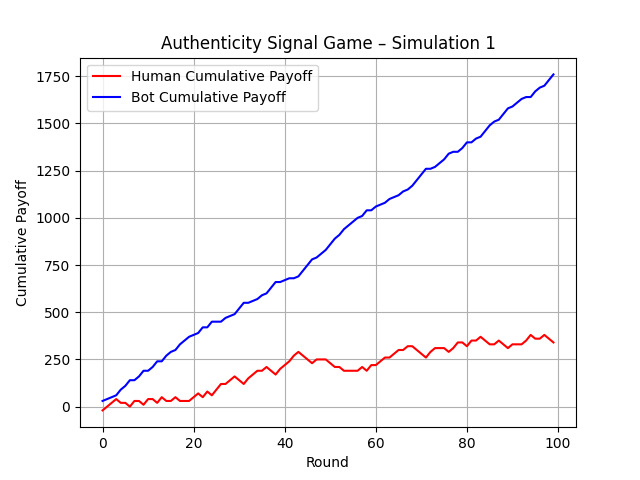
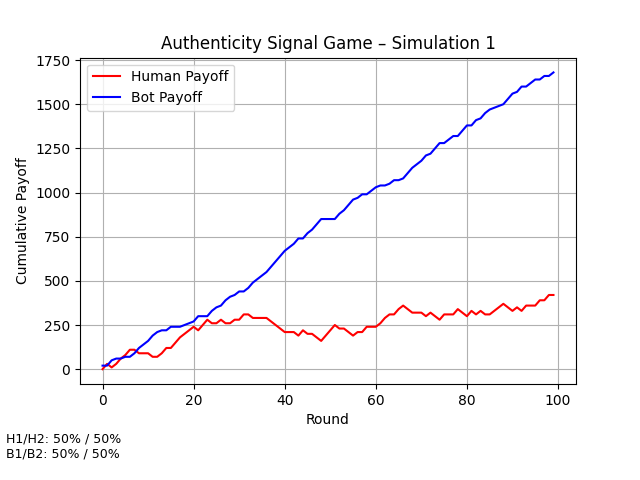
added information in resulting pics

diff --git a/simulation2.py b/simulation2.py
@@ -29,7 +29,7 @@ bot_distribution = {'B1': 0.5, 'B2': 0.5}
 # Neue Regel: Mensch kann Bot B2 melden
 report_threshold_b2 = 3      # B2 wird nach 3 Meldungen geblockt
 report_threshold_b1 = 8      # B1 wird nach 8 Meldungen geblockt (seltener)
-report_prob_b2 = 0.25        # H1 erkennt B2 relativ leicht
+report_prob_b2 = 0.75        # H1 erkennt B2 relativ leicht
 report_prob_b1 = 0.05        # H1 erkennt B1 fast nie
 
 # --- Bot-Populationen ---
@@ -79,6 +79,16 @@ for _ in range(rounds):
 
 
 # Plot results
+settings_text = (
+    f"H1/H2: {human_distribution['H1']*100:.0f}% / {human_distribution['H2']*100:.0f}%\n"
+    f"B1/B2: {bot_distribution['B1']*100:.0f}% / {bot_distribution['B2']*100:.0f}%\n"
+    f"Report Prob B1/B2: {report_prob_b1*100:.0f}% / {report_prob_b2*100:.0f}%\n"
+    f"Blocking Threshold B1/B2: {report_threshold_b1} / {report_threshold_b2}"
+)
+
+plt.subplots_adjust(bottom=0.2)
+plt.gcf().text(0.01, 0.01, settings_text, fontsize=9, verticalalignment='bottom')
+
 plt.plot(np.cumsum(human_scores), label='Human Payoff', color='red')
 plt.plot(np.cumsum(bot_scores), label='Bot Payoff', color='blue')
 plt.xlabel("Round")

diff --git a/simulation1.py b/simulation1.py
@@ -36,6 +36,14 @@ for _ in range(rounds):
     bot_scores.append(b_payoff)
 
 # Plot results
+settings_text = (
+    f"H1/H2: {human_distribution['H1']*100:.0f}% / {human_distribution['H2']*100:.0f}%\n"
+    f"B1/B2: {bot_distribution['B1']*100:.0f}% / {bot_distribution['B2']*100:.0f}%\n"
+)
+
+plt.subplots_adjust(bottom=0.2)
+plt.gcf().text(0.01, 0.01, settings_text, fontsize=9, verticalalignment='bottom')
+
 plt.plot(np.cumsum(human_scores), label='Human Payoff', color='red')
 plt.plot(np.cumsum(bot_scores), label='Bot Payoff', color='blue')
 plt.xlabel("Round")
